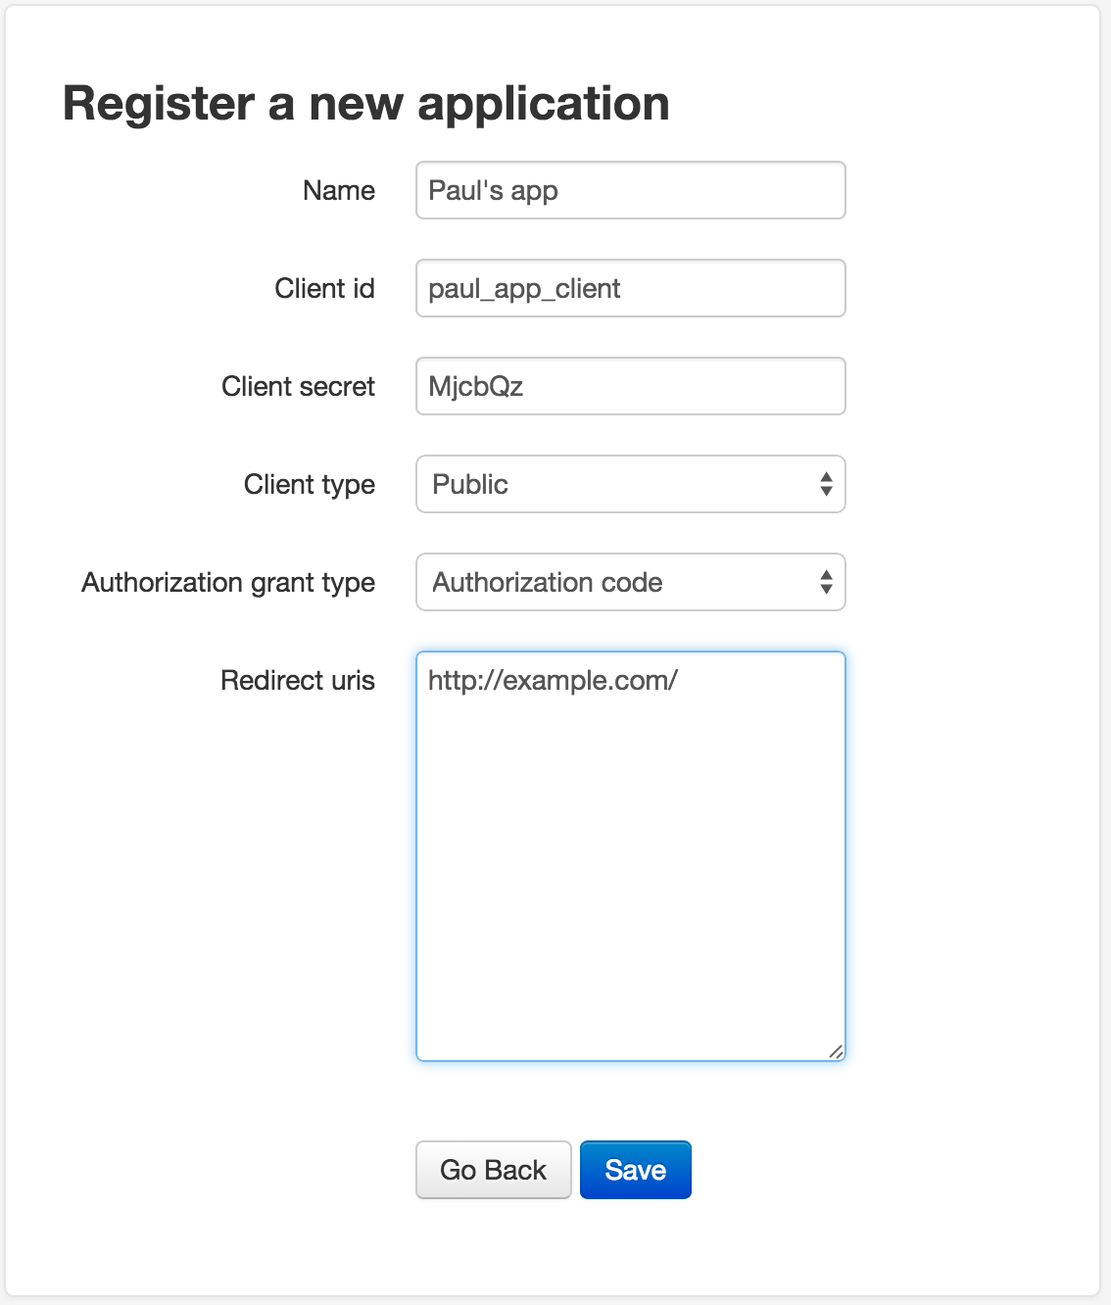
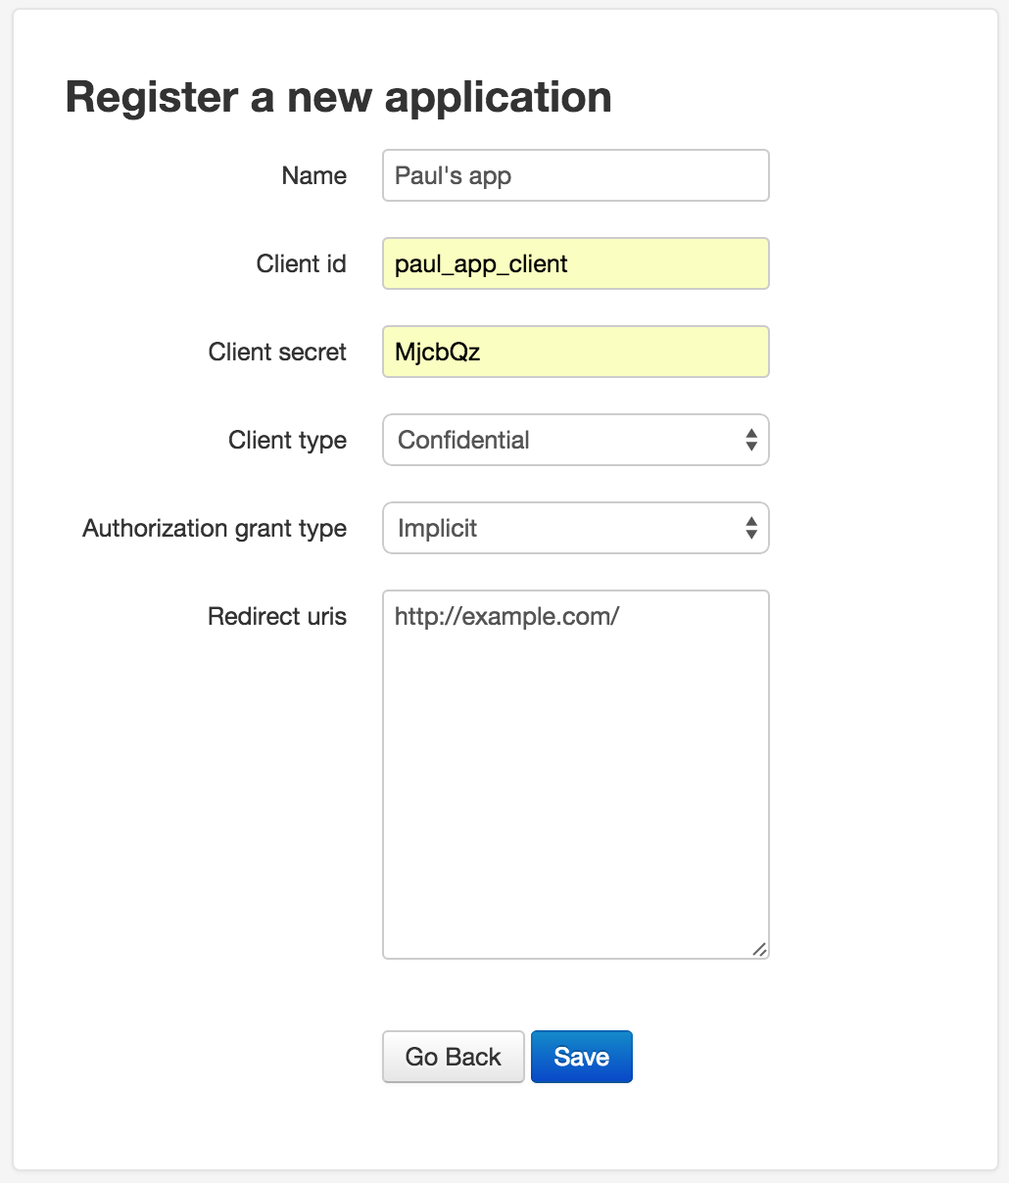
Finished OAuth

diff --git a/templates/oauth.html b/templates/oauth.html
@@ -6,14 +6,31 @@
       color: #000088;
       font-family: Courier;
 }
+figcaption {
+  text-align: center;
+}
+
+figure img {
+  margin-left: auto;
+  margin-right: auto;
+}
+.screenshot {
+  box-shadow: 0 0 10px #888;
+  border: 1px solid #aaa;
+  border-radius: 7px;
+}
 </style>
       <h1>OAuth</h1>
+
+      <img src="static/img/oauth.png" style="float: right">
 
       <p>Heb je wel eens gebruik gemaakt van een API van Twitter, Facebook of Google? Dan heb je waarschijnlijk te maken gehad <strong>OAuth</strong>, de technologie die je toestemming verleent om gebruik te maken van die API's.</p>
 
       <p>Er zijn veel misverstanden over OAuth waardoor het vaak verkeerd begrepen wordt en er veel frictie ontstaat ontstaat tussen de API en de ontwikkelaar. Het is bijvoorbeeld niet ontworpen om enkel mee in te loggen, hoewel het daar wel veel voor gebruikt wordt. Deze week gaan we kijken naar het probleem van authoriseren en hoe OAuth dat oplost.</p>
 
-      <p>We nemen als voorbeeld de Poespas bank. Een simpele website waarmee gebruikers kunnen inloggen met een gebruikersnaam en wachtwoord. Als ze ingelogd zijn zien ze hun huidige saldo. Ze hebben ook een simpele API waarmee gebruikers hun saldo kunnen checken.</p>
+      <p>We gaan deze week oefenen met OAuth 2.0. Er is ook versie 1.0 en 1.0a die heel anders werken (hoewel ze qua concept wel gelijk zijn). Let altijd op met welke versie je te maken hebt, je kan een 2.0 client niet laten praten met een 1.0 server en vice versa.</p>
+
+      <p>We nemen als voorbeeld de Poespas bank. Een simpele website waarmee gebruikers kunnen inloggen met een gebruikersnaam en wachtwoord. Als ze ingelogd zijn zien ze hun huidige saldo. De bank heeft een simpele API waarmee gebruikers hun saldo kunnen checken.</p>
 
       <h3>Simpele authenticatie</h3>
 
@@ -23,6 +40,8 @@
             <img src="static/img/auth_basic.png">
       </figure>
 
+      <img src="static/img/http_auth.png" style="float: right; width: 30%; margin-left: 10px">
+
       <p>Veel echte API's werkte vroeger op deze manier (vaak op basis van <a href="http://en.wikipedia.org/wiki/Basic_access_authentication">HTTP Authentication</a>). En zolang alles over een beveiligde verbinding tussen de gebruiker en de server loopt is alles veilig. De problemen beginnen echter als een derde partij betrokken raakt bij onze API.</p>
 
       <p>Een startup heeft de <i>BudgetApp</i> ontwikkelt, een nieuwe app die laat zien hoeveel saldo je per maand op je rekening hebt staan. Ze maken gebruik van de Poespas API om het saldo van de gebruiker op te halen. Maar om die API te kunnen gebruiken hebben ze de gebruikersnaam en het wachtwoord van de gebruiker nodig. Op hun inlogscherm vragen ze daarom om de inloggegevens zodat de app goed kan werken.</p>
@@ -31,28 +50,41 @@
             <img src="static/img/auth_basic_app.png">
       </figure>
 
-      <p>Het probleem met deze manier van authenticeren wordt nu snel duidelijk: de app krijgt de gebruikersnaam en wachtwoord van de gebruiker in handen. Daarmee kunnen ze niet alleen het saldo kunnen ophalen met de API. Maar ook alle andere dingen die de gebruiker kan zoals bijvoorbeeld inloggen, geld overschrijven en wachtwoord veranderen.</p>
+      <p>Het probleem met deze manier van authenticeren wordt nu snel duidelijk: de app krijgt de gebruikersnaam en wachtwoord van de gebruiker in handen. Daarmee kunnen ze niet alleen het saldo ophalen met de API. Maar ook alle andere dingen die de gebruiker kan zoals bijvoorbeeld inloggen, geld overschrijven en het wachtwoord veranderen.</p>
 
 
-      <p>Om deze situatie te voorkomen willen we een autorisatiesysteem waarbij de app wel een sleutel krijgt om de API te gebruiken, maar niet het wachtwoord van de gebruiker zelf. Dat moet strict geheim blijven.</p>
+      <p>Om deze situatie te voorkomen willen we een authorisatiesysteem waarbij de app wel een sleutel krijgt om de API te gebruiken, maar niet het wachtwoord van de gebruiker zelf. Dat moet strict geheim blijven.</p>
 
-      <h3>Enter OAuth</h3>
+      <h3>Access tokens</h3>
 
-      ...Access token verhaal...
+      <img src="static/img/access_token.png" class="center-block" style="float: right; width: 25%">
+      <p>OAuth lost dit probleem op door het concept van een <b>access token</b>. Een lange string waarmee je aangeeft dat een bepaalde gebruiker jou toestemming heeft gegeven om de API te mogen gebruiken. Deze token geef je bij elke aanroep van de API mee in een speciale 'Authorization' header, zodat de server deze kan verifiëren.</p>
 
-      <h3>autorisatie</h3>
+      <p>De app heeft nu niet meer de gebruikersnaam en wachtwoord van de gebruiker nodig, de access token is voor de bank een veilige manier om toegang tot de API te geven. En omdat een access token maar tijdelijk geldig is (vaak maar een uur) blijft de schade relatief beperkt als een hacker hier toegang tot krijgt.</p>
 
-      <p>Deze site heeft ook een API die te vinden is op: <a href="/api/hallo">/api/hallo</a>. Die mag je uiteraard alleen gebruiken als je een access token hebt, als je gewoon op de link klikt krijg je een lege 403 pagina (Forbidden). We gaan alle stappen doorlopen om te komen tot de almachtige access token waarmee we de API kunnen aanroepen.</p>
+      <img src="static/img/oauth_facebook.png" class="center-block">
 
-      <p>De eerste stap bij een OAuth provider is om een client aan te maken. Daarmee weet de site altijd wie het is die de API aanroep doet. Voor deze opdracht kan je die aanmaken op <a href="/o/applications/">deze pagina</a>. Maak je eigen applicatie met de volgende gegevens:</p>
+      <p>Access tokens kan je aanvragen door de gebruiker te sturen naar een speciale authorisatie pagina. Je hebt ze vast wel eens eerder gezien: de pagina's waar je moet inloggen en op 'Geef toestemming' moet klikken. Zodra je op die knop klikt wordt je weer teruggestuurd naar de oorspronkelijke app of webapplicatie met de access token in de URL.</p>
+
+      <figure>
+            <img src="static/img/auth_access_token.png" class="center-block">
+      </figure>
+
+      <p>Je kan ook een speciale <b>authorisatie code</b> terugkrijgen in plaats van een access token als je dat in een parameter aanzet. Deze kan je inwisselen voor een access token en een refresh token, een speciale token waarmee je nieuwe access tokens kan maken. Handig als je langer dan een uur van de API gebruik wil blijven maken. Met al die verschillende tokens gaan we oefenen in de opdrachten.</p>
+
+      <h3>Opdrachten</h3>
+
+      <p>Deze site heeft ook een API die te vinden is op: <a href="/api/hello">/api/hello</a>. Die mag je uiteraard alleen gebruiken als je een access token hebt, als je gewoon op de link klikt krijg je een lege 403 pagina (Forbidden). We gaan alle stappen doorlopen om te komen tot de almachtige access token waarmee we de API kunnen aanroepen.</p>
+
+      <p>De eerste stap bij een OAuth provider is om een client aan te maken. Daarmee weet de server altijd wie het is die de API aanroep doet. Voor deze opdracht kan je die aanmaken op <a href="/o/applications/">deze pagina</a>. Maak je eigen applicatie met de volgende gegevens:</p>
 
       <ul>
         <li><b>Name</b>: mag je zelf kiezen</li>
         <li><b>Client id</b>: mag je zelf kiezen, maar moet wel uniek zijn</li>
         <li><b>Client secret</b>: mag je zelf kiezen</li>
-        <li><b>Client type</b>: Public</li>
-        <li><b>Authorization grant type</b>: Authorization code</li>
-        <li><b>Redirect uris</b>: http://example.com/ (mag ook een andere onzin URL zijn)</li>
+        <li><b>Client type</b>: Confidential</li>
+        <li><b>Authorization grant type</b>: Implicit</li>
+        <li><b>Redirect uris</b>: http://example.com/ (mag ook een eigen URL zijn)</li>
       </ul>
 
       <figure>
@@ -65,7 +97,7 @@
         <input class="question-input" name="oauth_client_id" value="{{ answers.oauth_client_id }}"></input>
       </div>
 
-      <p>Elke OAuth server heeft twee endpoints (lees: URL's): de autorisatie endpoint en de token endpoint. Hieronder zie je de endpoints van een aantal bekende servers:</p>
+      <p>Elke OAuth server heeft twee endpoints (lees: URL's): de authorisatie endpoint en de token endpoint. Hieronder zie je de endpoints van een aantal bekende servers:</p>
 
       <table border="1" cellpadding="4">
         <tr>
@@ -95,76 +127,146 @@
         </tr>
       </table>
 
-      <p>De autorisatie endpoint is de URL waar je de gebruiker heenstuurt om hem te laten inloggen op de website en om op 'Toestaan' te laten klikken. Deze site redirect daarna weer terug naar je eigen site / app met een speciale autorisatie code. De token endpoint is de OAuth API waar we al onze access tokens uit kunnen halen, maar dan hebben we wel eerst die autorisatie code nodig.</p>
+      <p>De authorisatie endpoint is de URL waar je de gebruiker heenstuurt om hem te laten inloggen op de website en om op 'Toestaan' te laten klikken. Deze site redirect daarna weer terug naar je eigen site / app met een speciale authorisatie code. De token endpoint is de OAuth API waar we al onze access tokens uit kunnen halen, maar dan hebben we wel eerst die authorisatie code nodig.</p>
 
       <p>Om te authoriseren hebben we de volgende URL parameters nodig: (<a href="http://tools.ietf.org/html/rfc6749#section-4.1.1">documentatie</a>)</p>
 
       <ul>
-        <li><b>response_type</b>: "token" of "code". Met "token" krijg je direct een access token in de redirect URL. Handig als je de API maar 1x hoeft te gebruiken. Minder handig als je de API langer wilt blijven gebruiken, want access tokens blijven vaak niet langer dan een uur geldig. Dan moet je de gebruiker elk uur opnieuw laten inloggen. Met "code" krijg je een autorisatie code die je kan inwisselen voor een speciale refresh_token, daar kan je tot in de oneindigheid nieuwe access tokens mee maken. <i>Voor deze opdracht gebruiken we "code"</i>.</li>
+        <li><b>response_type</b>: "token" of "code". Met "token" krijg je direct een access token in de redirect URL. Handig als je de API maar 1x hoeft te gebruiken. Minder handig als je de API langer wilt blijven gebruiken, want access tokens blijven vaak niet langer dan een uur geldig. Dan moet je de gebruiker elk uur opnieuw laten inloggen. Met "code" krijg je een authorisatie code die je kan inwisselen voor een speciale refresh_token, daar kan je tot in de oneindigheid nieuwe access tokens mee maken. <i>Voor deze opdracht gebruiken we "token"</i>.</li>
         <li><b>client_id</b>: Jouw gekozen client id</li>
-        <li><b>redirect_uri</b>: optioneel, en eigenlijk ook redundant. Want die geef je ook vaak op als je je registreert als client bij de provider. Als de gebruiker op 'Toestaan' heeft geklikt wordt hij naar deze URL teruggestuurt met de autorisatie code of access token</li>
+        <li><b>redirect_uri</b>: optioneel, en eigenlijk ook redundant. Want die geef je ook vaak op als je je registreert als client bij de provider. Als de gebruiker op 'Toestaan' heeft geklikt wordt hij naar deze URL teruggestuurt met de authorisatie code of access token</li>
         <li><b>scope</b>: optioneel, kan je mee aangeven welke gedeeltes van de API je wilt kunnen gebruiken</li>
         <li><b>state</b>: optioneel, een string die je kan meegeven die ook weer wordt teruggestuurd als de gebruiker wordt terug geredirect. Kan handig zijn.</li>
       </ul>
 
-      <p>Een voorbeeld van een autorisatie URL is: <span class="url">http://sec.aii.avans.nl/o/authorize/?client_id=(CLIENT_ID)&amp;response_type=code</span></p>
+      <p>Voor deze site is de authorisatie URL:<br>
+      <span class="url">http://sec1.aii.avans.nl/o/authorize/?client_id=(CLIENT_ID)&amp;response_type=token</span></p>
 
       <div class="question">
-        <span class="question-string">Autoriseer met je eigen client id. Welke autorisatie code heb je gekregen?</span>
+        <span class="question-string">Authoriseer met je eigen client id. Welke access token heb je gekregen?</span>
+        <div class="points"><span class="question-points">5</span> punten</div>
+        <input class="question-input" name="oauth_implicit_access_token" value="{{ answers.oauth_implicit_access_token }}"></input>
+      </div>
+
+      <div class="question">
+        <span class="question-string">Hoeveel seconden is deze token code geldig?</span>
+        <div class="points"><span class="question-points">5</span> punten</div>
+        <input class="question-input" name="oauth_implicit_access_token_expires" value="{{ answers.oauth_implicit_access_token_expires }}"></input>
+      </div>
+
+      <p>De access token kan je nu gebruiken om een request te doen naar <a href="/api/hello">/api/hello</a>. De token geef je mee door de volgende HTTP header mee te sturen:</p>
+
+      <code class="pre">Authorization: Bearer nW8JkemabiKpxvD1Yen3FCcWM3k7vr</code>
+
+      <p>Uiteraard moet je je eigen access token dan gebruiken. Er zijn vele tools waarmee je HTTP requests mee kan maken met je eigen headers en data. In de screenshots gebruiken we <a href="https://chrome.google.com/webstore/detail/postman-rest-client-packa/fhbjgbiflinjbdggehcddcbncdddomop" target="_blank">Postman</a>.</p>
+
+      <img src="static/img/oauth_call_api.png" class="center-block screenshot" style="width: 80%; margin-top: 20px">
+
+      <div class="question">
+        <span class="question-string">Wat is de geheime code die gestuurd wordt als je de API aanroept?</span>
+        <div class="points"><span class="question-points">10</span> punten</div>
+        <input class="question-input" name="oauth_api_hello" value="{{ answers.oauth_api_hello }}"></input>
+      </div>
+
+
+      <h3>Web applicaties</h3>
+
+      <p>Wat doen we als de token verloopt en je nog steeds de API wil gebruiken? Je kan natuurlijk de gebruiker opnieuw naar de authorisatie URL sturen voor een nieuwe access token. Maar als jouw web applicatie dagelijks de gebruiker meerdere keren per dag redirect om op 'Geef toestemming' te klikken wordt die daar helemaal gek van.</p>
+
+      <p>OAuth heeft hier de zogenaamde refresh tokens voor verzonnen. Dit is een uitgebreidere manier om access tokens te krijgen en is meer geschikt voor webapplicaties. We moeten wel helemaal terug naar het begin en alle stappen net iets anders doen:</p>
+
+      <ol>
+        <li>Ga naar <a href="/o/applications/">/o/applications/</a> en verander jouw applicatie zodat deze nu als <b>Authorization grant type</b> de waarde <b>Authorization code</b> heeft.<br>
+        <img src="static/img/oauth_set_grant_type.png" class="screenshot" style="width: 40%">
+        </li>
+
+        <li>Ga opnieuw naar dezelfde authorisatie URL van vorige keer, maar nu met <b>response_type=code</b> in plaats van response_type=token</li>
+
+        <li>Je wordt nu teruggestuurd met een zogenaamde authorisatie code</li>
+      </ol>
+
+      <div class="question">
+        <span class="question-string">Welke authorisatie code heb je gekregen?</span>
         <div class="points"><span class="question-points">5</span> punten</div>
         <input class="question-input" name="oauth_authorization_code" value="{{ answers.oauth_authorization_code }}"></input>
       </div>
 
-      <h3>Access tokens in zicht</h3>
+      <img src="static/img/oauth_authorization_code.png" style="width: 25%; float: right">
 
-      <p>Ok, we hebben nu een autorisatie code. Met die code heb je nu een bewijsje dat de gebruiker recentelijk jouw client heeft geautoriseerd. Maar na dat alles hebben we nog steeds niet die albelangrijke access tokens die ons toegang geven tot de API. Om daar aan te komen moeten we onze autorisatie code inwisselen bij de token endpoint voor een refresh token en een access token.</p>
 
-      <p>Dit lijkt allemaal nodeloos complex, waarom geeft OAuth nadat de gebruiker zijn zege heeft gegevens ons niet meteen een refresh_token en een access_token? Waarom moet dat nou weer via een aparte 'autorisatie code'? De reden hiervoor is is dat OAuth ontworpen is rond het principe dat webapplicatie's access_token moeten kunnen krijgen, zonder dat de gebruiker die te zien krijgt. De gebruiker kan niet zelf nieuwe access tokens ophalen omdat hij niet de client_secret heeft.</p>
-
-      <p>Om de access_token en de refresh_token te krijgen moeten we POST requests versturen naar de token endpoint. Testen met POST requests is het handigst om met een tool te doen. In de screenshots maken we gebruik van <a href="https://chrome.google.com/webstore/detail/postman-rest-client-packa/fhbjgbiflinjbdggehcddcbncdddomop" target="_blank">Postman</a>.
-
-      We moeten de volgende parameters meesturen: (<a href="http://tools.ietf.org/html/rfc6749#section-4.1.3" target="_blank">documentatie</a>)
+      <p>Deze authorisatie code is nog geen access token op zich, maar kan een webapplicatie wel inwisselen voor een access token. Dit doet het door een POST request te doen naar de token endpoint. We moeten daarvoor de volgende parameters meesturen:</p>
 
       <ul>
         <li><b>grant_type</b>: Moet de waarde "authorization_code" hebben.</li>
-        <li><b>code</b>: De autorisatie code die we hebben gekregen van de autorisatie endpoint.</li>
+        <li><b>code</b>: De authorisatie code die we hebben gekregen van de authorisatie endpoint.</li>
+        <li><b>redirect_uri</b>: Dezelfde URL die we eerder als redirect_uri hebben gebruikt.</li>
+        <li><b>client_id</b>: De client id die je hebt verzonnen</li>
+        <li><b>client_secret</b>: De client secret die je hebt verzonnen</li>
+      </ul>
 
-      <figure>
-          <img src="static/img/oauth_get_token.png" style="width: 50%">
-      </figure>
+      <p>Doe er niet te lang over, authorisatie codes verlopen vaak al na enkele minuten. Als je het goed doet krijg je een response met daarin de refresh_token (en een gratis access_token!). Als je een <code>invalid_grant</code> error krijgt betekent dat dat jouw code verlopen is en dat je een nieuwe moet aanvragen. Als je een <code>invalid_client</code> error krijgt moet je goed controleren of je redirect_uri, client_id en client_secret allemaal goed staan ingesteld.</p>
 
-      ... Wissel om voor een access token (binnen 60 sec!) ...
+      <img src="static/img/oauth_exchange_auth_code.png" class="screenshot" style="margin: 20px; width: 80%; margin-left: auto; margin-right: auto;">
 
-      Welke access_token heb je gekregen? <input></input> 2 punten
-      En welke refresh_token? <input></input> 2 punten
+      <div class="question">
+        <span class="question-string">Welke refresh token heb je gekregen?</span>
+        <div class="points"><span class="question-points">5</span> punten</div>
+        <input class="question-input" name="oauth_refresh_token" value="{{ answers.oauth_refresh_token }}"></input>
+      </div>
 
-      Gebruik de access_token om de API /api/hello aan te roepen.
+      <img src="static/img/oauth_refresh_token.png" style="float: right; width: 25%">
+      <p>Gefeliciteerd, je hebt nu een refresh token! Een oneindige bron van nieuwe access tokens. Je vraagt je bijna af waarom OAuth uberhaupt de moeite doet om een authorisatie code te hebben als die toch maar zo kort gebruikt wordt. De reden hiervoor is dat dit mechanisme ervoor zorgt dat alleen de webapplicatie de refresh en access tokens kan ophalen, en niet de gebruiker. Zonder de juiste client_secret kan de gebruiker namelijk helemaal niets met de authorisatie code.</p>
 
-      Welke geheime code is er op de API te downloaden? <input></input> 5 punten
-
-      ... Refresh ...
+      <p>We schakelen voor het gebruik van de refresh token even over naar een hele andere site</p>
 
       <h3>Google</h3>
 
-      Calendar API: https://www.googleapis.com/calendar/v3/calendars/secavans@gmail.com/events
-      Refresh token: 1/Capy9gSUUiS3HEWDCrc8AQjSoBg3uPz79JtOvSVw5kk
+      <p>Bij Google hebben we een OAuth client geregistreerd en de volgende gegevens gekregen:</p>
 
-      ... Wat is de geheime code? <input></input> 20 punten
+      <code style="display: block;">
+      Client id: 353772107173-61n4eq2n32u1idevgh5uochsehd19uf4.apps.googleusercontent.com<br>
+      Client secret: O4Q1RRRH81XdPe5iTHvlpkuT<br>
+      Refresh token: 1/Capy9gSUUiS3HEWDCrc8AQjSoBg3uPz79JtOvSVw5kk<br></code>
+
+      <p>Met deze gegevens kunnen we weer een POST doen naar de token endpoint (voor Google: https://accounts.google.com/o/oauth2/token) om een access token te genereren. Dit keer hoeven we geen redirect_uri mee te sturen en moeten we de grant_type parameter op 'refresh_token' zetten:</p>
+
+      <img src="static/img/oauth_google_refresh.png" class="screenshot" style="width: 70%; margin: 20px; display: block">
+
+      <p>Gebruik de access token die je krijgt om een API call te doen naar <span class="url">https://www.googleapis.com/calendar/v3/calendars/secavans@gmail.com/events</span>. Vergeet niet weer de juiste Authorization header te gebruiken om je access token in te zetten! Als je het goed doet krijg je alle events uit onze Google Calender te zien in JSON formaat.</p>
+
+      <img src="static/img/oauth_google_call_api.png" class="screenshot" style="width: 70%; margin: 20px; display: block">
+
+      <div class="question">
+        <span class="question-string">Wat is de code die in de Geheime afspraak staat? </span>
+        <div class="points"><span class="question-points">10</span> punten</div>
+        <input class="question-input" name="oauth_calendar_secret_code" value="{{ answers.oauth_calendar_secret_code }}"></input>
+      </div>
+
+      <p>Genoeg tutorial, tijd voor het echte werk! We gaan handmatig het hele OAuth proces doorlopen voor een Google API. Dat mag weer de <a href="https://developers.google.com/google-apps/calendar/v3/reference/events/list" target="_blank">Google Calendar API</a> zijn maar dan voor je eigen Google Calendar. Maar je mag ook een <a href="https://developers.google.com/apis-explorer/" target="_blank">andere API</a> kiezen zoals <a href="https://developers.google.com/gmail/api/" target="_blank">Gmail</a> of <a href="https://developers.google.com/drive/v2/reference/" target="_blank">Google Drive</a>.</p>
+
+      <p>Details over Google OAuth 2.0 kan je vinden op <a href="https://developers.google.com/identity/protocols/OAuth2" target="_blank">deze pagina</a>. Let op dat je API's eerst moet activeren in de <a href="http://console.developers.google.com/">Developer Console</a>. Dat is ook de plek waar je je Client ID en Client secret krijgt, die maak je aan onder APIs &amp; auth > Credentials. Maak een nieuwe client aan voor een standaard web applicatie.</p>
+
+      <p>Gebruik de authorisatie URL zoals die <a href="https://developers.google.com/identity/protocols/OAuth2WebServer#formingtheurl">hier</a> staat gedocumenteerd.</p>
 
 
-      Gebruik je eigen Google account om iets uit een Google API te halen. Denk bijvoorbeeld aan je laatst ontvangen gmail mailtje, een overzicht van bestanden op Google Drive,
-
+      <div class="question">
+        <span class="question-string">Beschrijf de HTTP requests die je hebt gemaakt om de token te krijgen en de API te gebruiken (en ook de uitkomst van die requests). Gevoelige data mag je met ***** censureren.</span>
+        <div class="points"><span class="question-points">15</span> punten</div>
+        <textarea class="question-input" name="oauth_google_requests" value="{{ answers.oauth_google_requests }}" style="height: 200px"></textarea>
+      </div>
       Beschrijf alle GET en POST requests die je hebt gedaan om tot de .<input></input>
 
-      <h3>Eigen API</h3>
+      <h3>Mini webapp</h3>
 
-      Maak een kleine webapplicatie waarmee je alle evenementen op je Google calendar kan inzien. Je mag hierbij gebruik maken van een framework.
-      <input></input> 30 punten
+      <p>Maak een kleine webapplicatie in PHP waarmee je de requests uit de vorige opdracht automatisch uitvoert (je mag ook een OAuth framework gebruiken)</p>
 
+      <img src="static/img/webapp1.png" class="screenshot" style="width: 40%">
+      <img src="static/img/webapp2.png" class="screenshot" style="width: 40%">
 
-
-
-
-
+      <div class="question">
+        <span class="question-string">Plak de broncode van je webapplicatie in het tekstvak</span>
+        <div class="points"><span class="question-points">20</span> punten</div>
+        <textarea class="question-input" name="oauth_google_requests" value="{{ answers.oauth_google_requests }}" style="height: 200px"></textarea>
+      </div>
 
 {% endblock %}

diff --git a/templates/base.html b/templates/base.html
@@ -16,11 +16,19 @@
         <div class="well span3" style="position: fixed">
           <p>Ingelogd als <strong>{{ user }}</strong>.</p>
 
+          <h5>Security 1</h5>
           <ul>
             <li><a href="/sql">SQL Injection</a></li>
             <li><a href="/xss">Cross-site Scripting</a></li>
             <li><a href="/wachtwoorden">Wachtwoorden</a></li>
             <li><a href="/bonus">Bonus</a></li>
+          </ul>
+
+          <h5>Security 2</h5>
+          <ul>
+            <li><a href="/oauth">OAuth</a></li>
+            <li>Certificaten (under construction)</li>
+            <li>Encryptie (under construction)</li>
           </ul>
 
           Moeilijkheidsgraad:
@@ -33,7 +41,7 @@
           <a href="/logout" class="btn">Uitloggen</a>
           {% if CLOSED %}<br>Inzendingen kunnen niet meer worden ingezonden{% else %}<button class="btn-primary btn-disabled" type="submit" id="save-button">Opslaan</button>{% endif %}
           <div class="alert alert-info" id="js-message" style="display: none;"></div>
-          <p>Deadline: donderdag 2 april 23:59</p>
+          <p>Deadline: woensdag 17 juni 23:59</p>
         </div>
 
         <div id="quiz" class="span8 offset3">

diff --git a/views.py b/views.py
@@ -86,7 +86,6 @@ def save_data(data, user):
             answer.save()
 
 def home(request, url):
-    #return HttpResponse('home2')
     if not request.user.is_authenticated():
         return avans_login(request)
 
